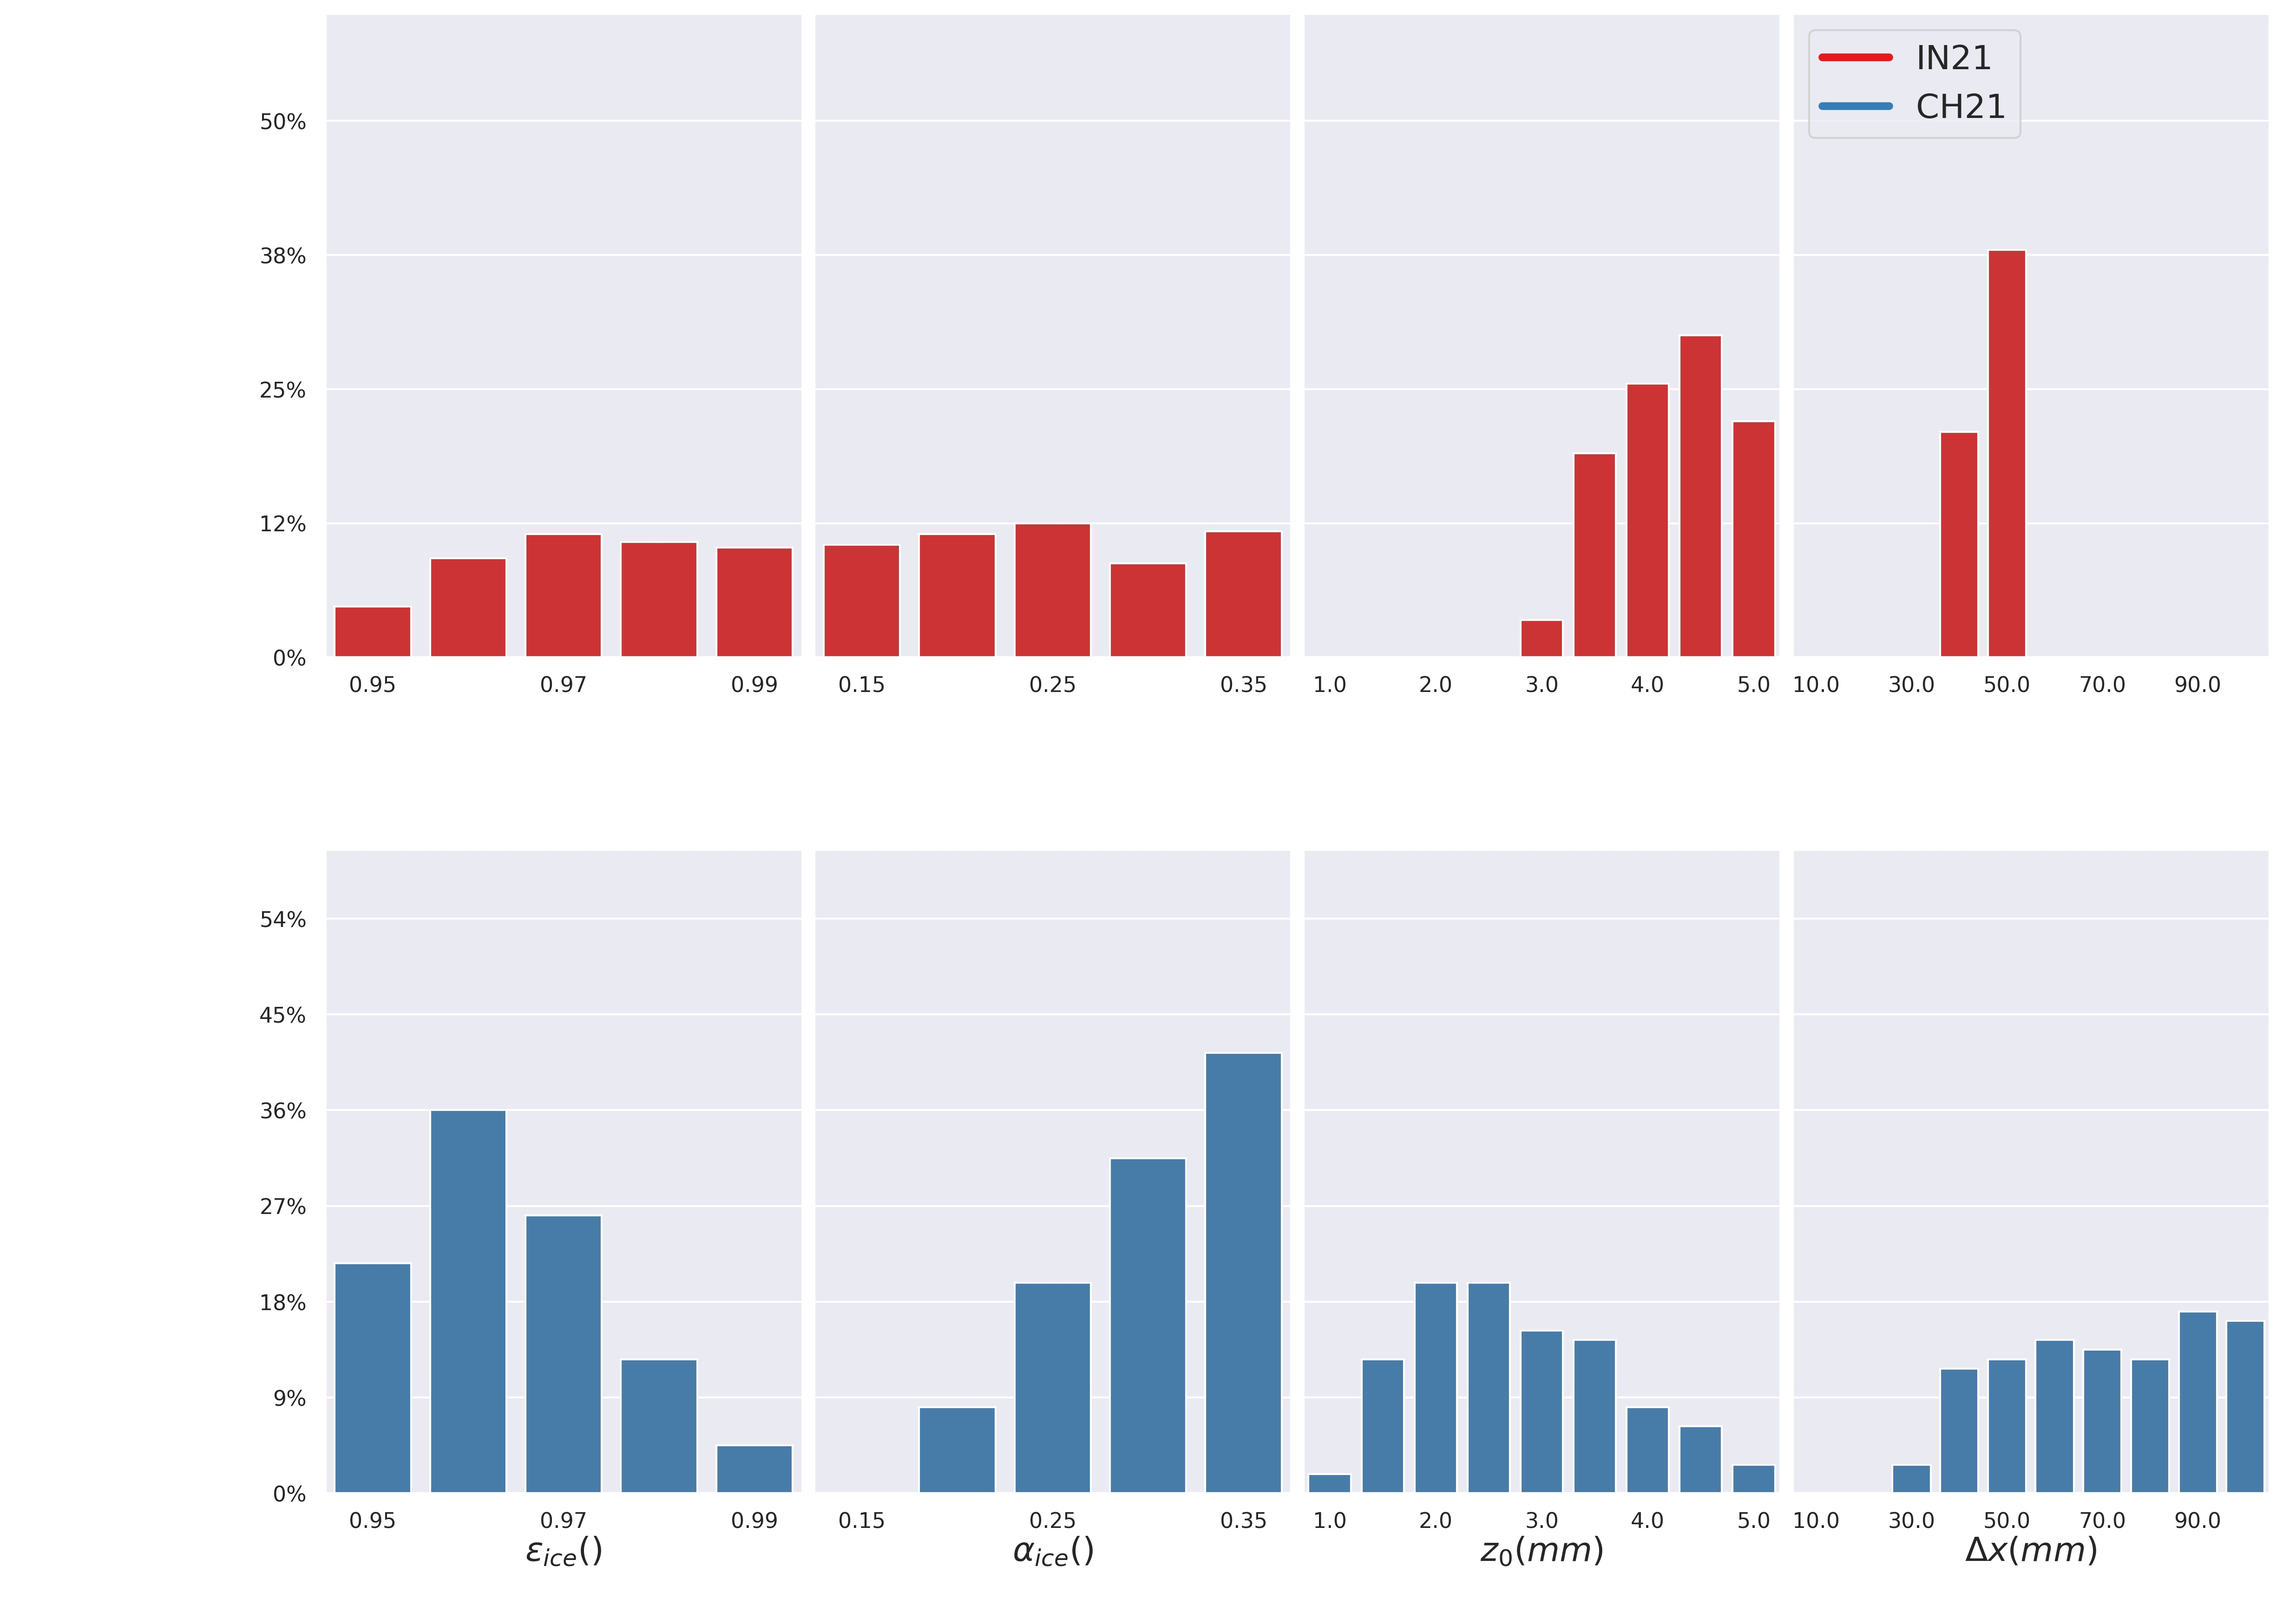
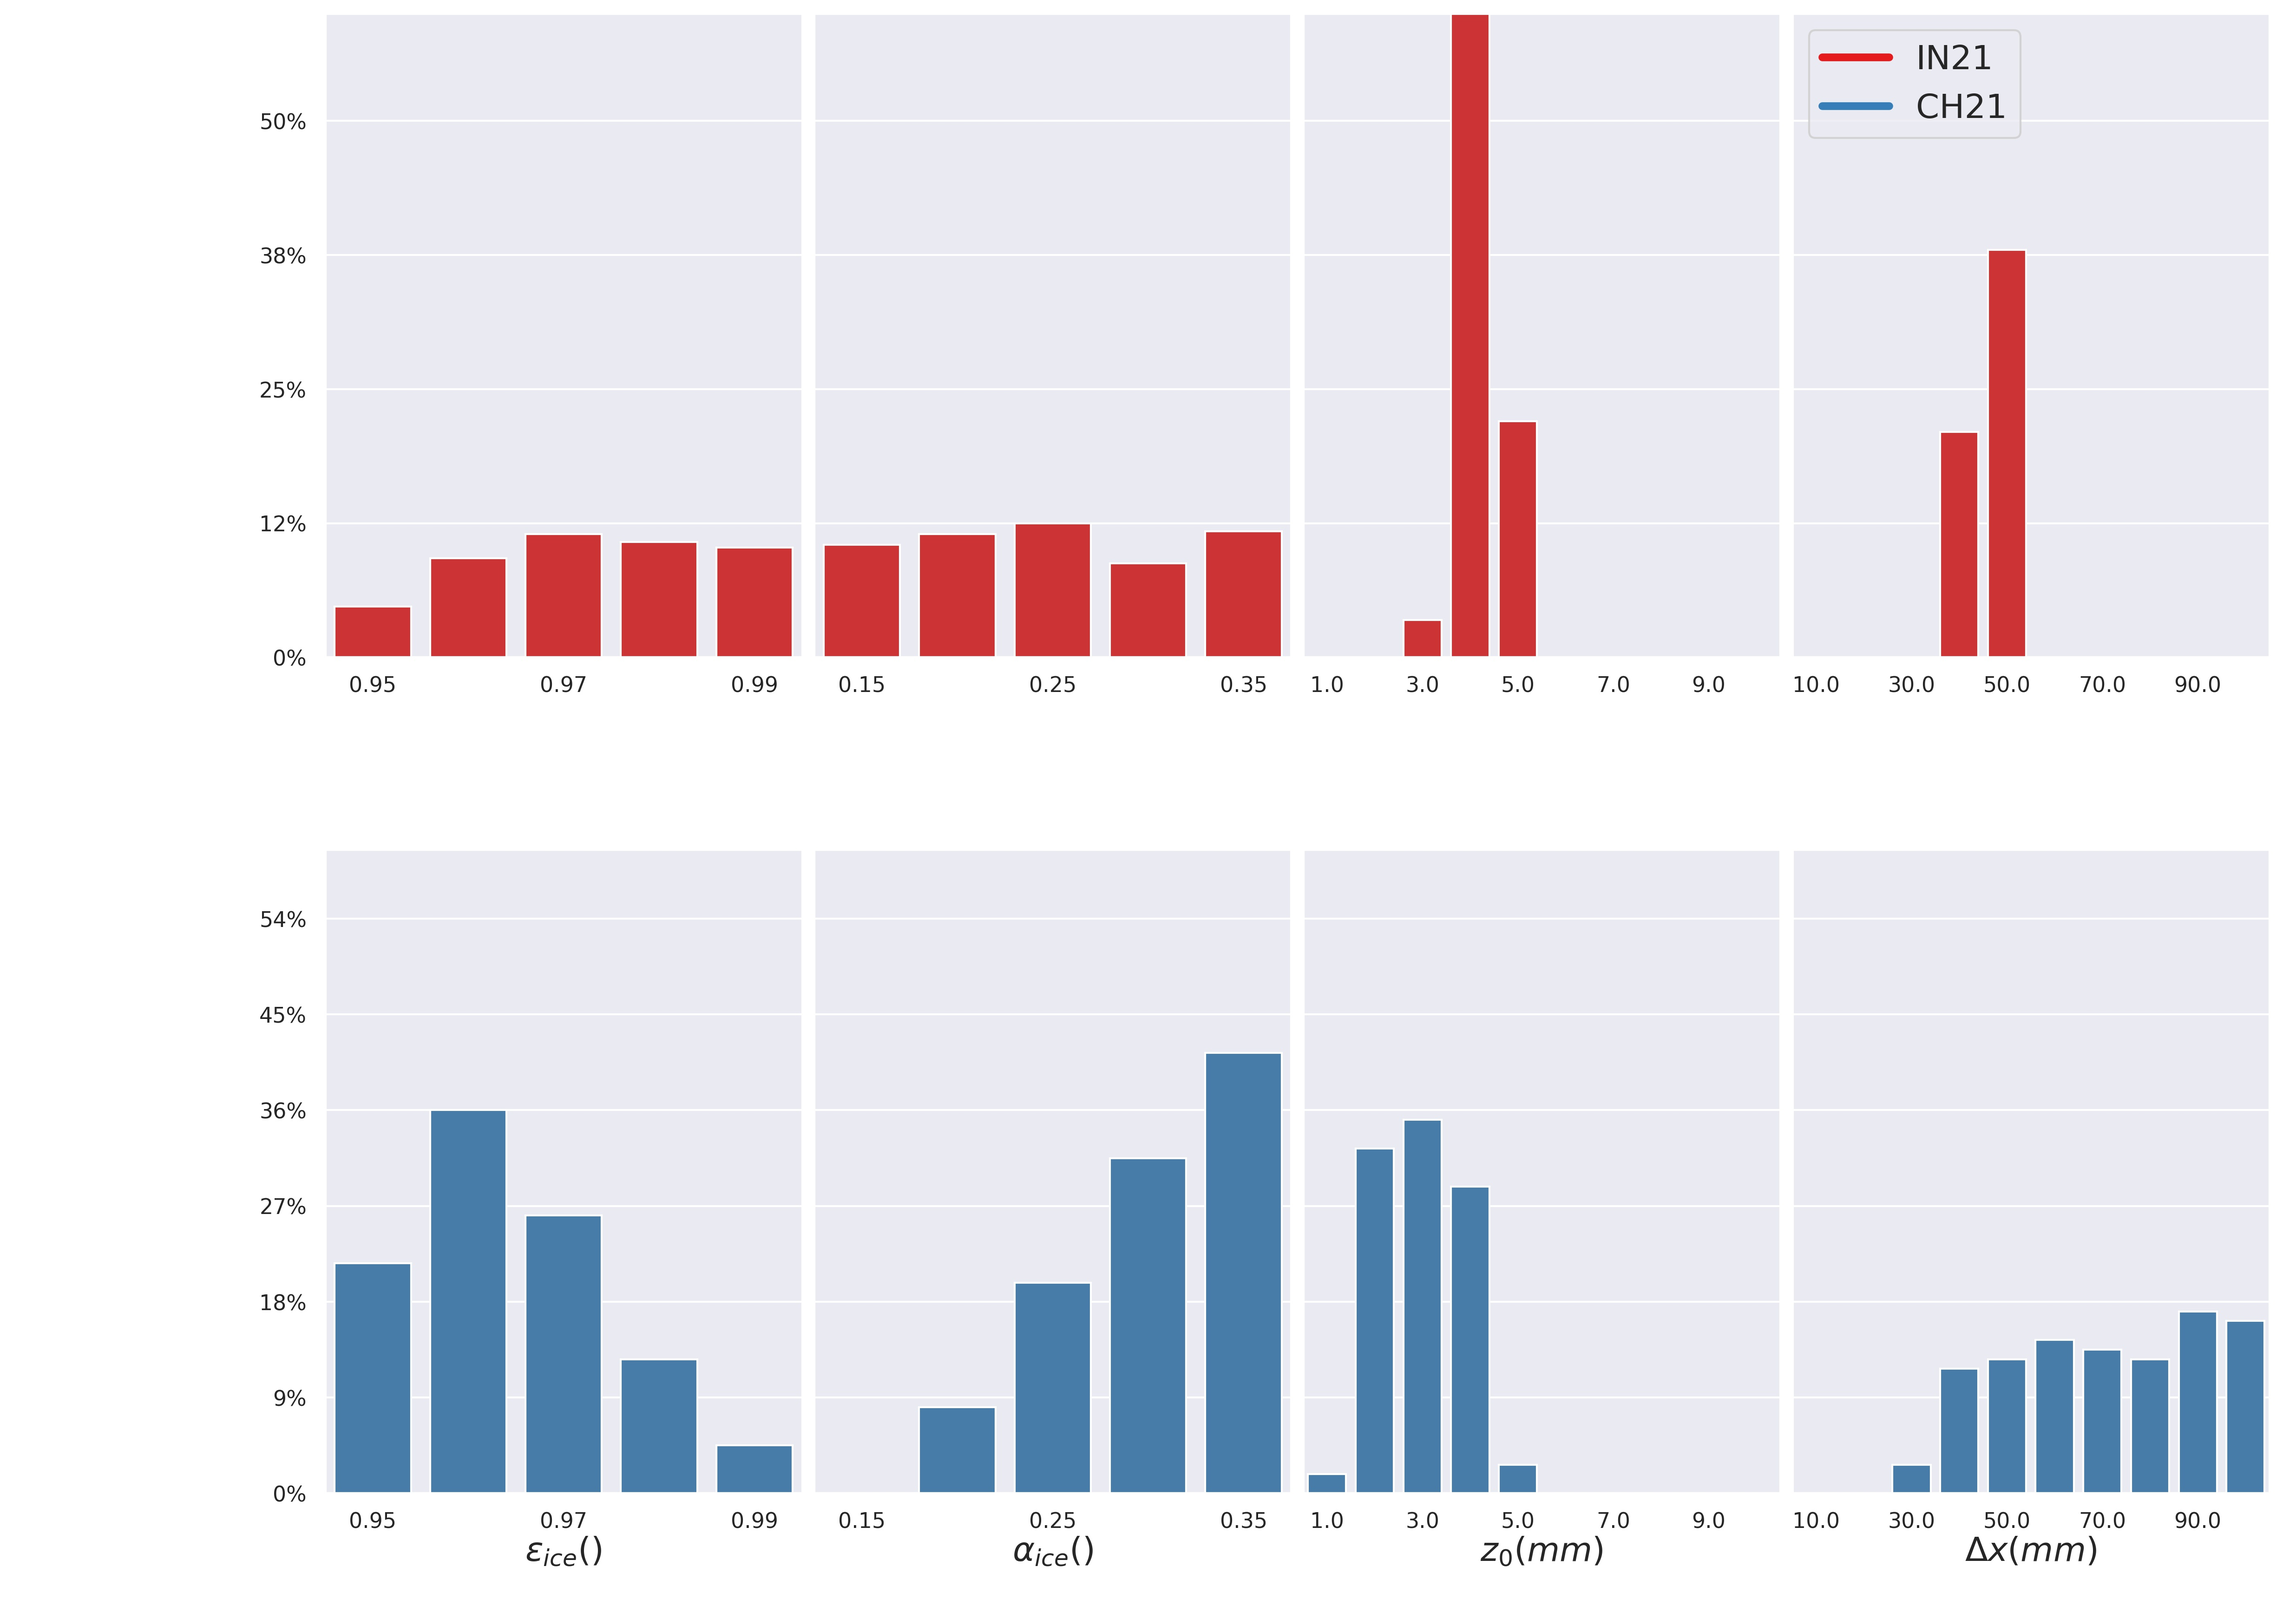
Investigate params

Changed region(s): [[0.5916, 0.0, 0.7784, 0.4351], [0.5916, 0.6837, 0.7784, 0.9634]]

diff --git a/src/utils/sensitivity-histplot.py b/src/utils/sensitivity-histplot.py
@@ -80,7 +80,10 @@ if __name__ == "__main__":
         df = pd.concat([df.drop(['params'], axis=1), df['params'].apply(pd.Series)], axis=1)
         df = df.round(4)
 
-        df['A_I'] = df['A_I'].map(lambda x: (truncate(x,3)))
+        # df['A_I'] = df['A_I'].map(lambda x: (truncate(x,3)))
+        df['Z'] = df['Z'].map(lambda x: (round(x,3)))
+        # df = df.loc[df.Z == 0.002]
+        # df = df.loc[df.DX <= 0.03]
         print(df.head())
         print()
         for col in params:
